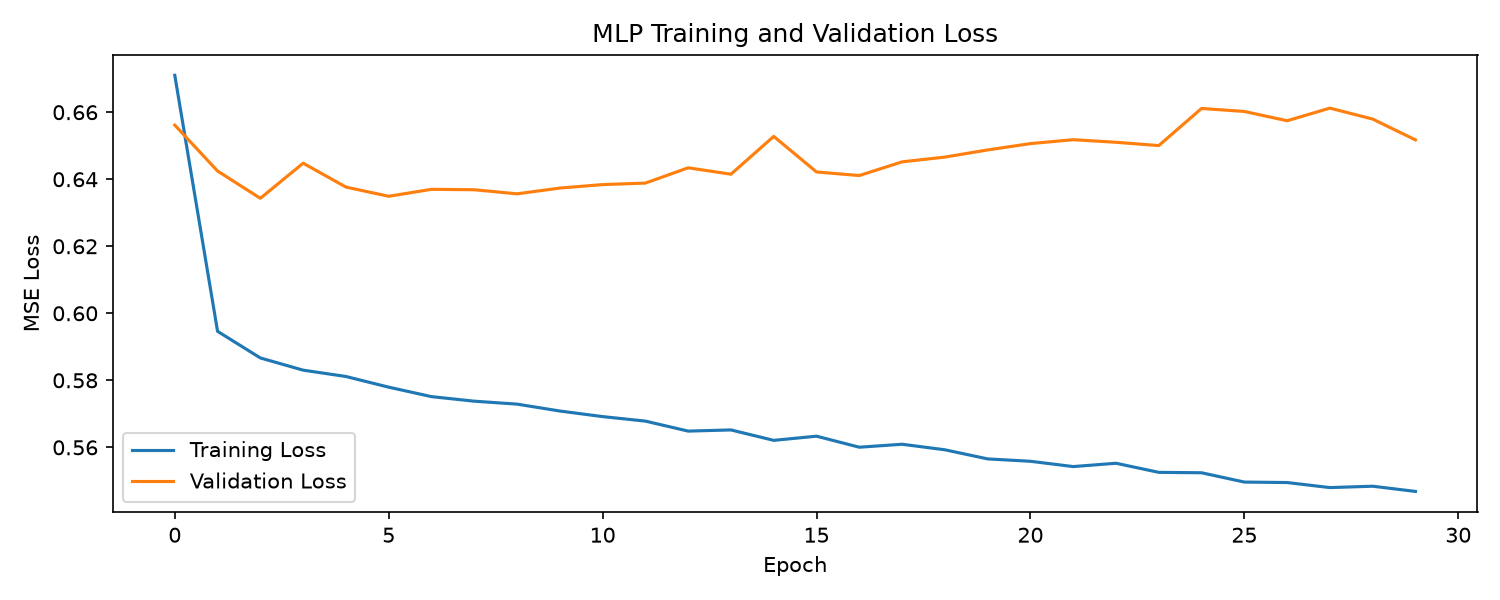
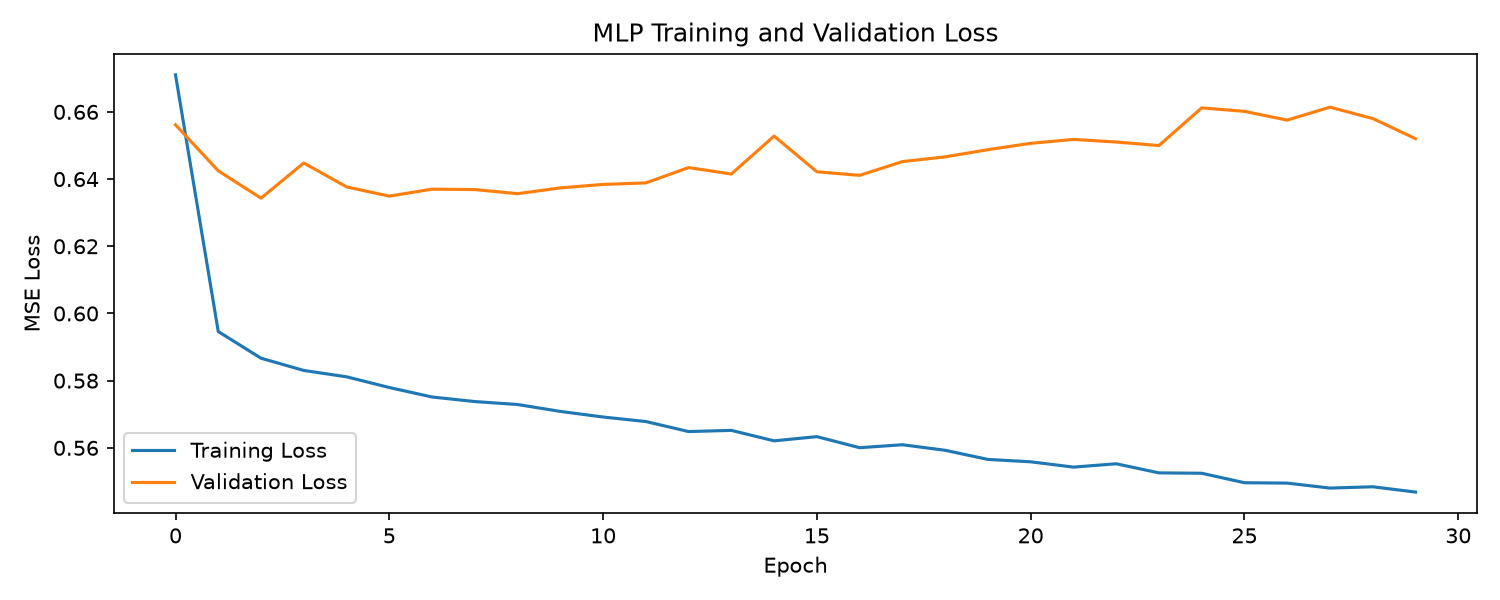
model comparison

diff --git a/scripts/compare_models.py b/scripts/compare_models.py
@@ -1,0 +1,64 @@
+import csv
+
+from pathlib import Path
+
+import matplotlib.pyplot as plt
+
+csv_path = Path("results/metrics/model_comparison.csv")
+
+models = []
+parameters = []
+best_val_losses = []
+test_losses = []
+
+with open(csv_path, newline="") as file:
+    reader = csv.DictReader(file)
+
+    for row in reader:
+        models.append(row["model"])
+        parameters.append(int(row["parameters"]))
+        best_val_losses.append(float(row["best_val_loss"]))
+        test_losses.append(float(row["test_loss"]))
+
+def generate_comparison_bar_graph(
+        data,
+        title,
+        ylabel,
+        file_name,
+        format_decimal=False
+):
+    plt.figure(figsize=(10, 4))
+    bars = plt.bar(models, data)
+    if format_decimal:
+        plt.bar_label(
+            bars,
+            labels=[f"{value:.3f}" for value in data]
+        )
+    else:
+        plt.bar_label(bars)
+
+    plt.title(title)
+    plt.xlabel("Model")
+    plt.ylabel(ylabel)
+    plt.tight_layout()
+
+    save_path = Path(f"results/figures/{file_name}")
+    save_path.parent.mkdir(parents=True, exist_ok=True)
+
+    plt.savefig(save_path, dpi=150)
+    plt.close()
+
+generate_comparison_bar_graph(
+    test_losses,
+    "Test MSE by Model",
+    "Test MSE",
+    "test_loss_comparison.png",
+    format_decimal=True
+)
+
+generate_comparison_bar_graph(
+    parameters,
+    "Parameter Count by Model",
+    "Number of Parameters",
+    "parameter_comparison.png"
+)
